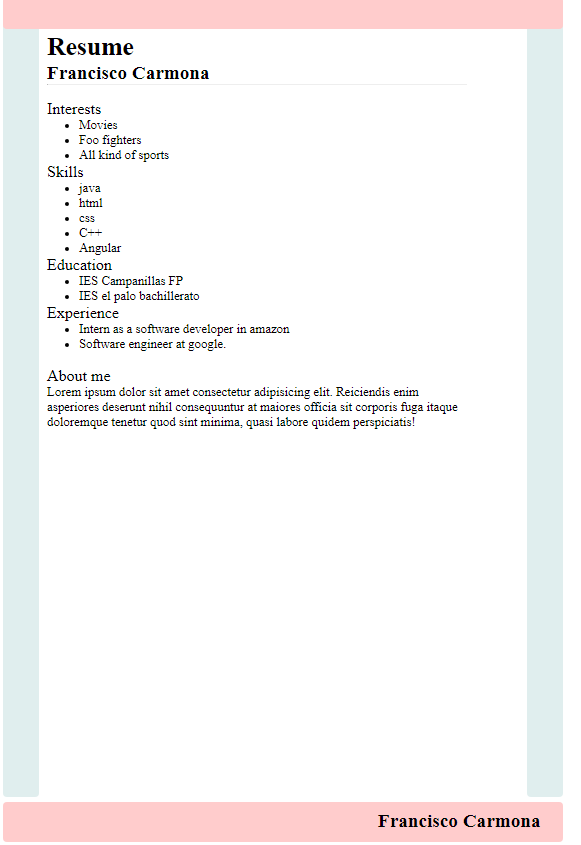
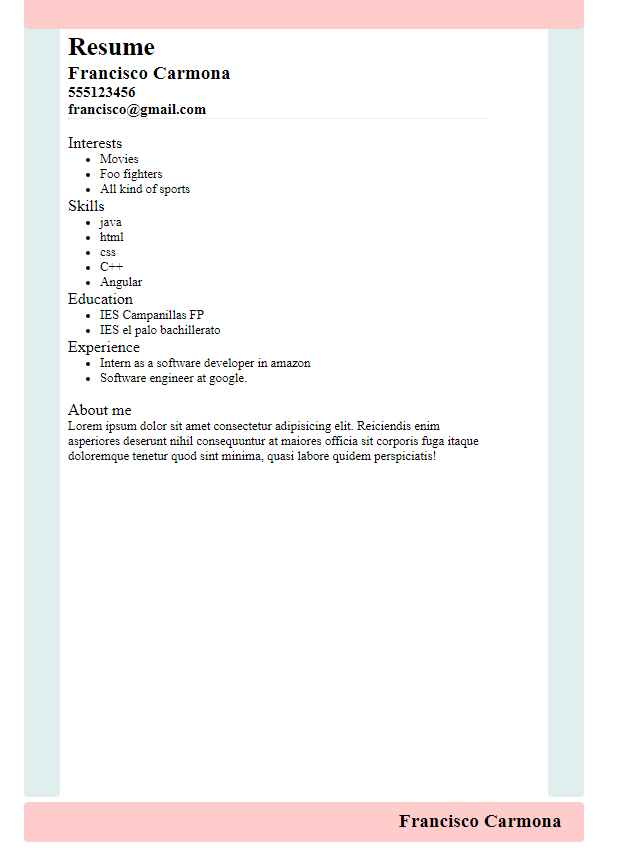
adding tel and email

Changed region(s): [[0.0, 0.0, 0.9914, 1.0]]

diff --git a/resume.html b/resume.html
@@ -14,7 +14,7 @@
   <br><br>
   <h1>Resume</h1>
   <h2>Francisco Carmona</h2>
-  <hr />
+  <h3>555123456</h3>  <h3>francisco@gmail.com</h3>  <hr />
   <br>
   <p class="head">Interests</p>
   <ul>

diff --git a/App.java b/App.java
@@ -37,6 +37,8 @@ public class App {
           + "  <br><br>\n"
           + "  <h1>Resume</h1>\n"
           + "  <h2>" + name + "</h2>\n"
+          + "  <h3>" + telephone + "</h3>"
+          + "  <h3>" + email + "</h3>"
           + "  <hr />\n"
           + "  <br>\n"
           + "  <p class=\"head\">Interests</p>\n"
